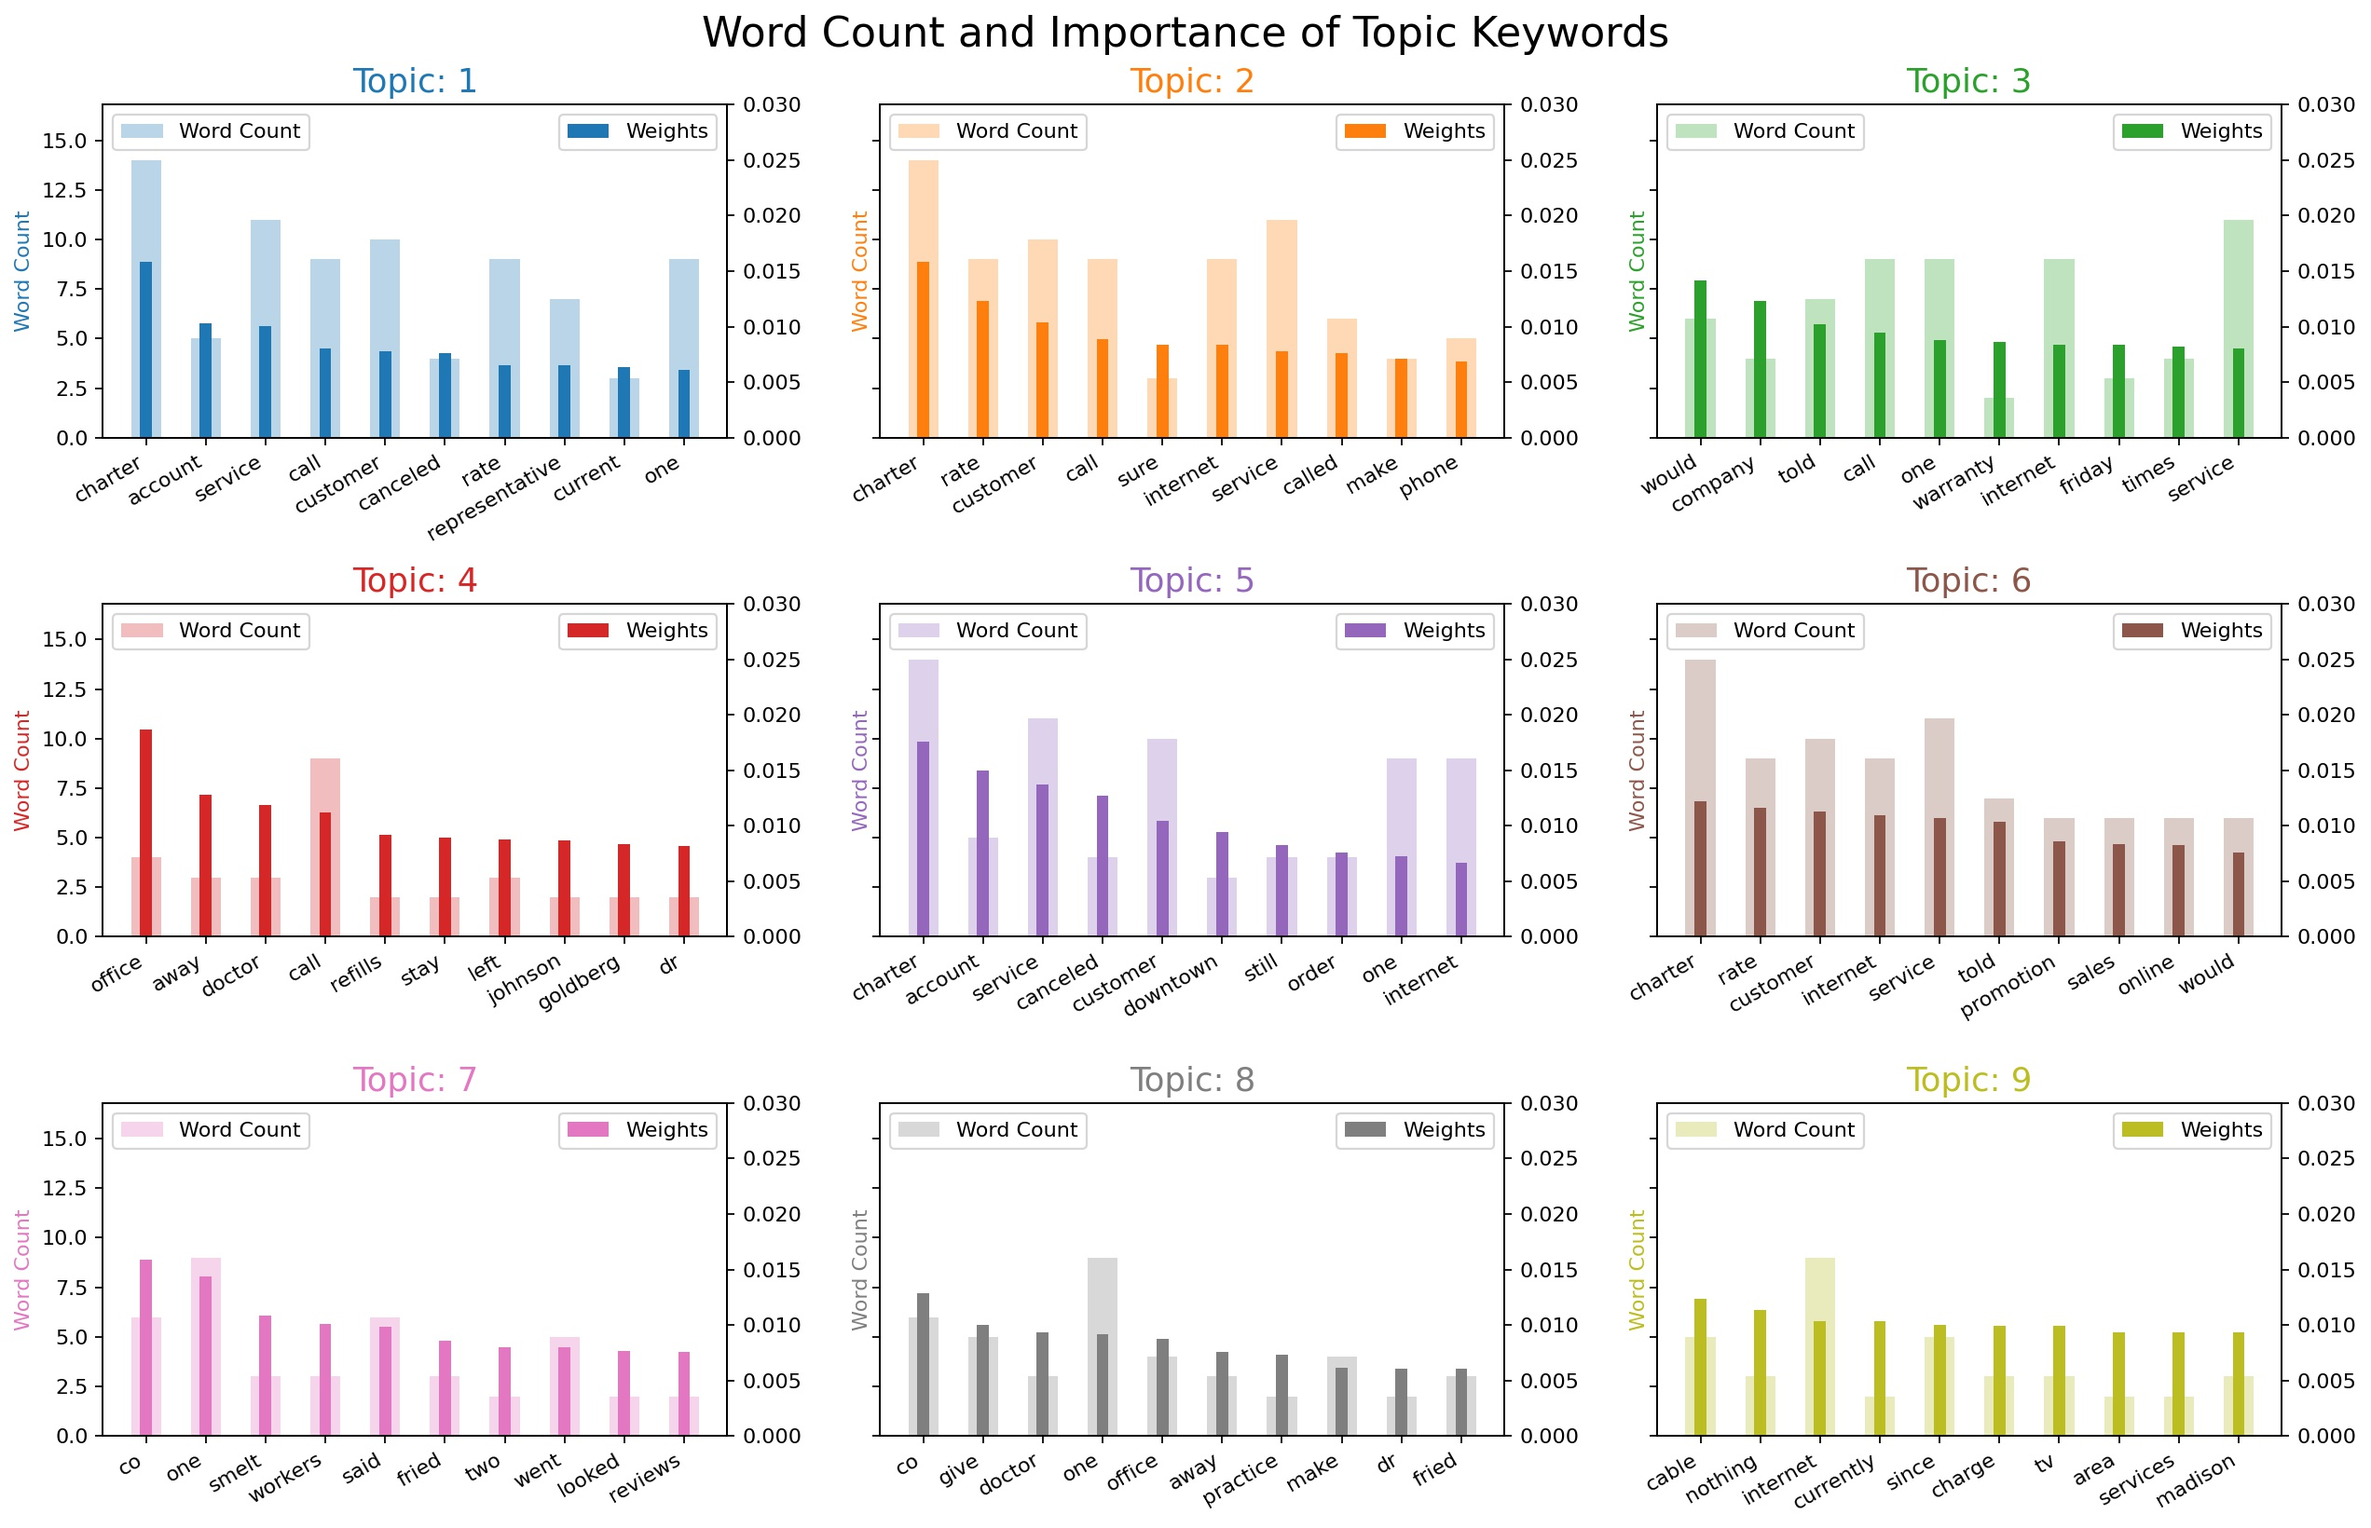
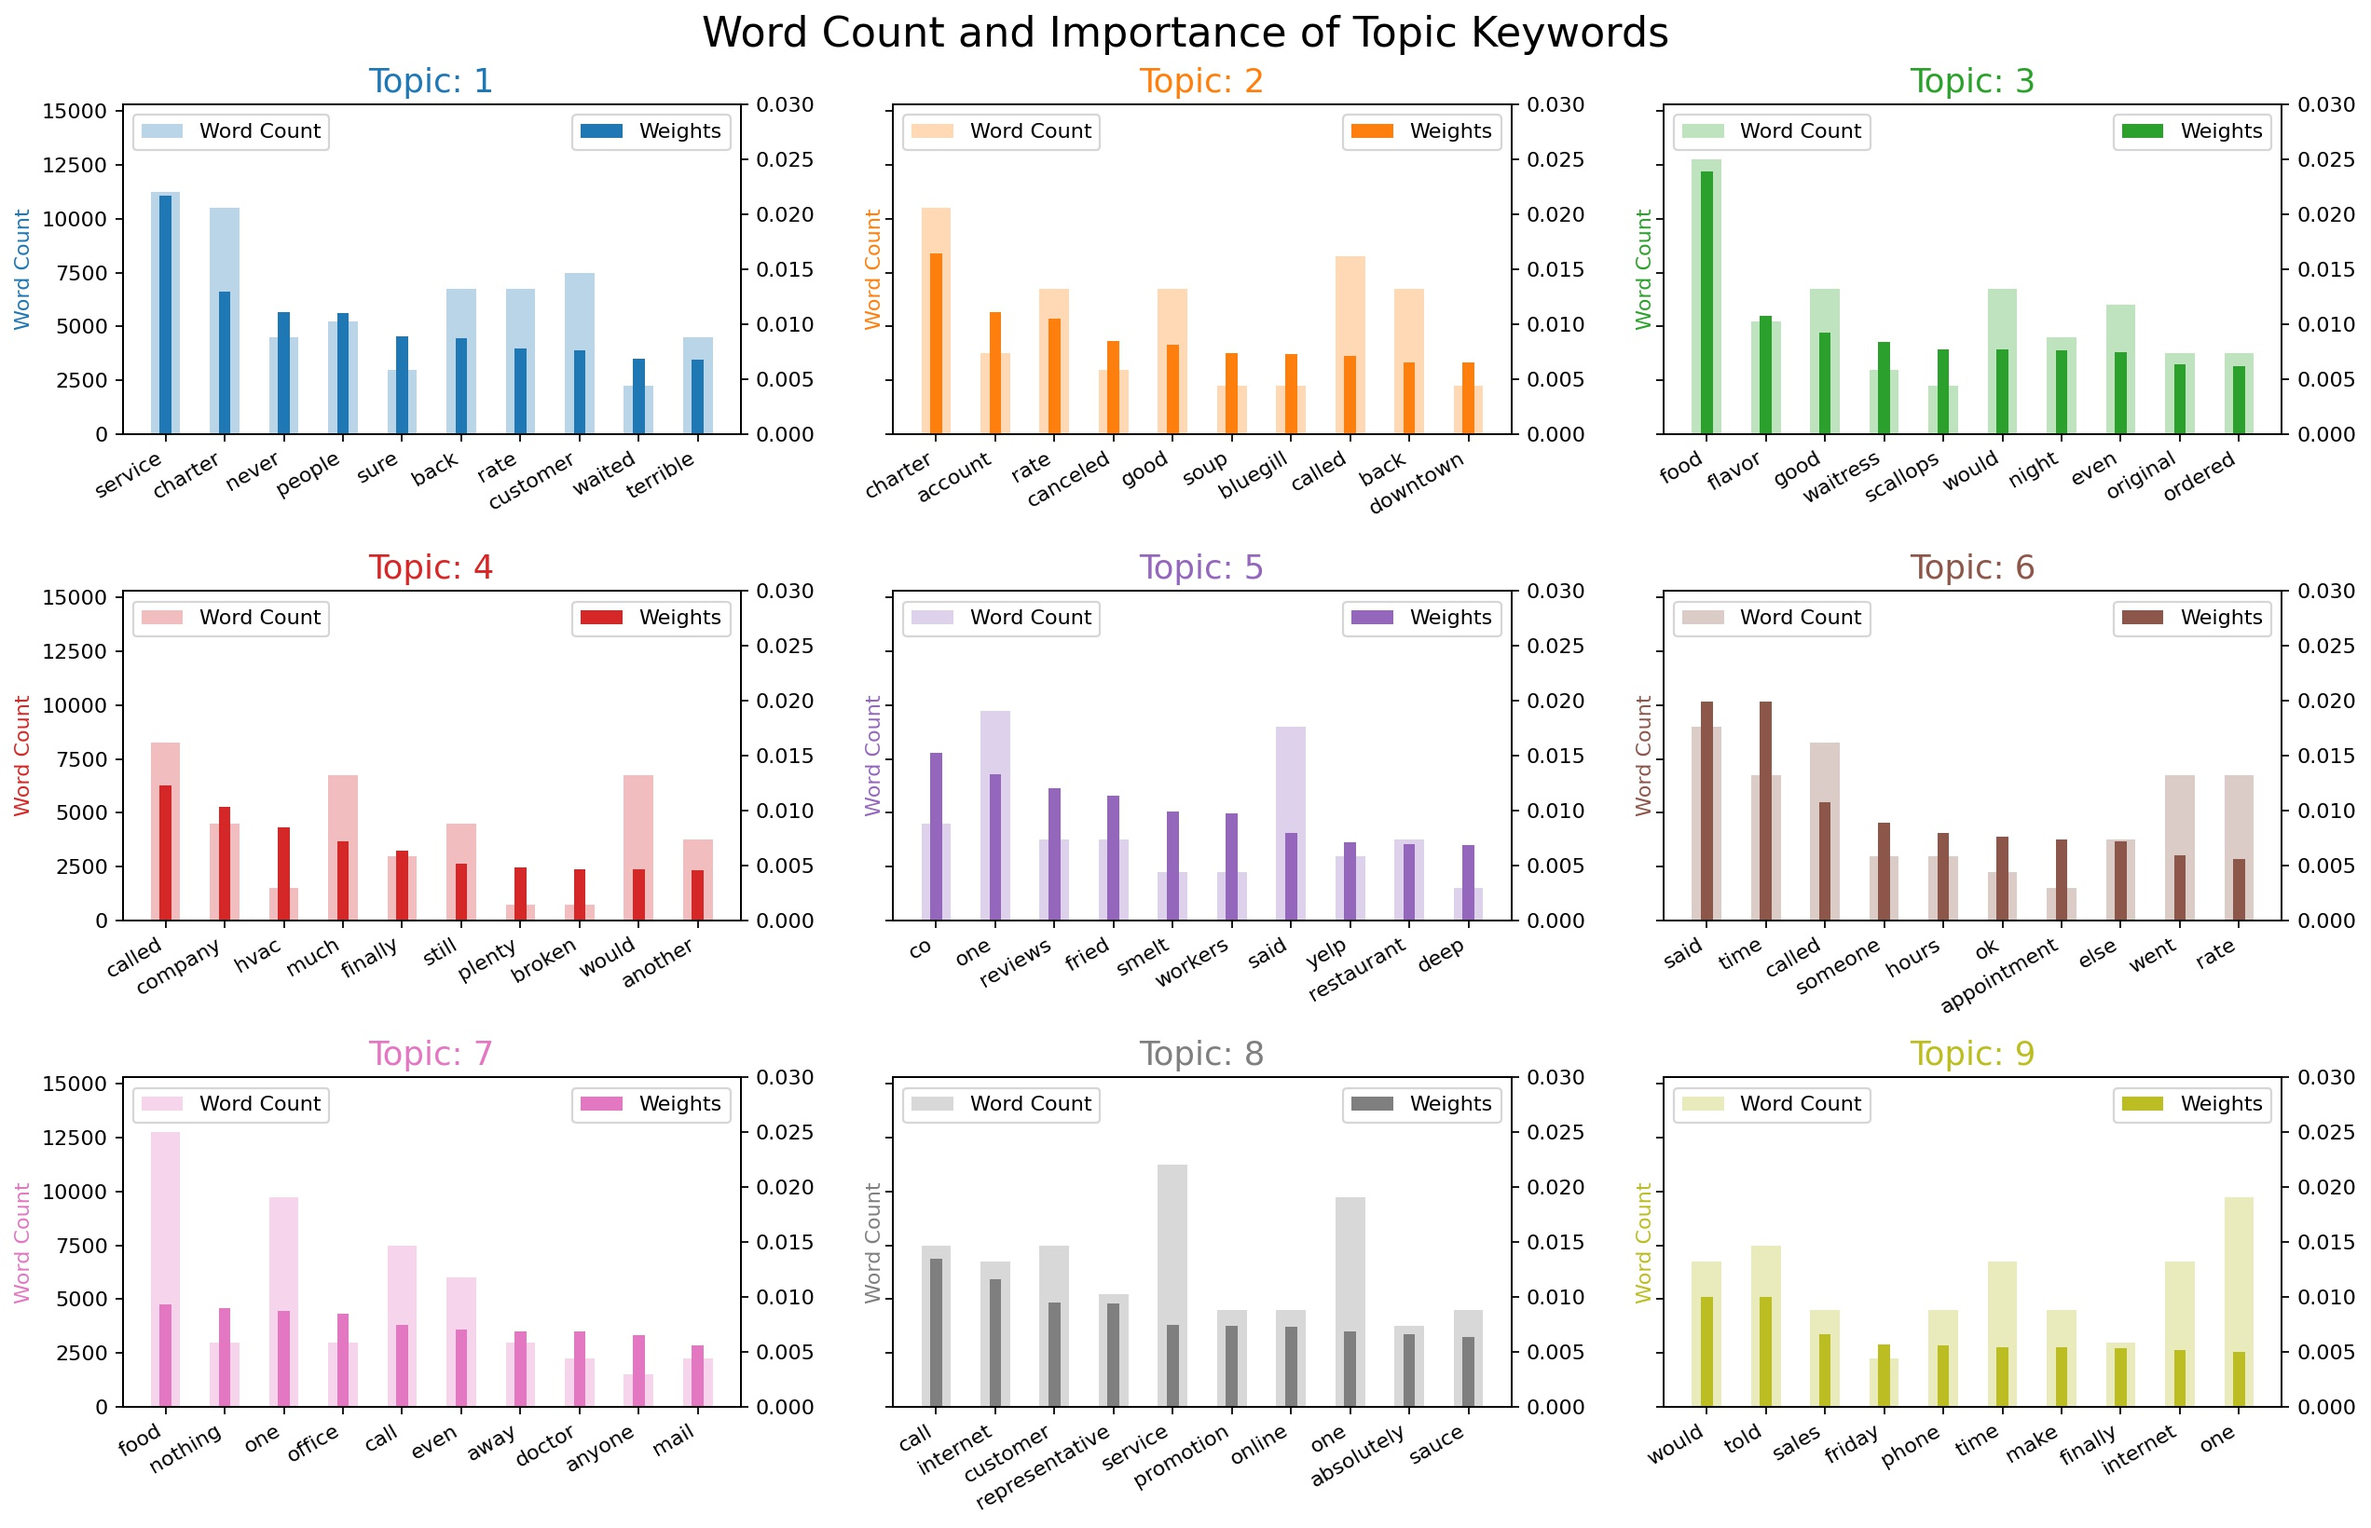
i think we nailed it

diff --git a/yelpApplication/scripts/imageCachingGeneration.py b/yelpApplication/scripts/imageCachingGeneration.py
@@ -11,6 +11,7 @@ import os
 import pandas as pd
 import re
 import requests
+import time
 from collections import Counter
 from flask import Flask, request
 from flask_cors import CORS
@@ -109,6 +110,8 @@ def runLDA(dataArrSegment, numberTopics):
 
 
 def visualizeLDATopicGraphs(ldaModel, dataWords):
+  topicMultiplier = 750
+  contributionMultiplier = 6
   topics = ldaModel.show_topics(formatted=False)
   dataWordsFlattened = [word for wordList in dataWords for word in wordList]
   counter = Counter(dataWordsFlattened)
@@ -129,8 +132,8 @@ def visualizeLDATopicGraphs(ldaModel, dataWords):
     axis.tick_params(axis='y', left=False)
     axis.set_xticklabels(df.loc[df.topic==idx, 'word'], rotation=30, horizontalalignment='right')
 
-    axis.set_ylim(0, 1.2 * maxWordCount)
-    axis.bar(x='word', height='wordCount', data=df.loc[df.topic == idx, :], color=colors[idx], width=0.5, alpha=0.3, label='Word Count')
+    axis.set_ylim(0, 1.2 * maxWordCount * topicMultiplier)
+    axis.bar(x='word', height='wordCount', data=df.loc[df.topic == idx, :] * topicMultiplier, color=colors[idx], width=0.5, alpha=0.3, label='Word Count')
     axis.legend(loc='upper left')
 
     twinAxis = axis.twinx()
@@ -201,12 +204,11 @@ def getLDAWordCloudVisualization(stopWords, ldaModel):
   return fig
 
 
-def runLDAGivenInputParameters(inputParameters):
+def runLDAGivenInputParameters(inputParameters, maxRecordsToPullIn):
   # nltk.download('stopwords') # Comment back in, if need to download stopwords
   stopWords = nltk.corpus.stopwords.words('english')
   stopWords.extend(['go', 'get', 'like', 'got', 'us'])
   numberTopics = 9
-  maxRecordsToPullIn = 10
 
   dataArrSegment = getDataThatMatchesInputParameters(inputParameters, stopWords, maxRecordsToPullIn)
 
@@ -224,12 +226,11 @@ def runLDAGivenInputParameters(inputParameters):
 
 
 if __name__ == '__main__':
-  import time
-
   def current_milli_time():
     return round(time.time() * 1000)
 
   scriptDirectory = os.path.dirname(os.path.realpath(__file__))
+  maxRecordsToPullIn = 25
 
   totalLoopsOverEstimation = 5 * 5 * 4 * 4 * 4
   loopCount = 0
@@ -250,7 +251,7 @@ if __name__ == '__main__':
               'usefulVotesMin': usefulVotesMin,
               'usefulVotesMax': math.inf,
             }
-            ldaTopicGraphsVisualization, ldaWordCloudVisualization = runLDAGivenInputParameters(inputParameters)
+            ldaTopicGraphsVisualization, ldaWordCloudVisualization = runLDAGivenInputParameters(inputParameters, maxRecordsToPullIn)
             visualizationDirectory = scriptDirectory + '/../images/cachingImages/' +  '_'.join([k + '=' + str(inputParameters[k]) for k in inputParameters]) + '/'
             if (not os.path.isdir(visualizationDirectory)):
               os.makedirs(visualizationDirectory)
